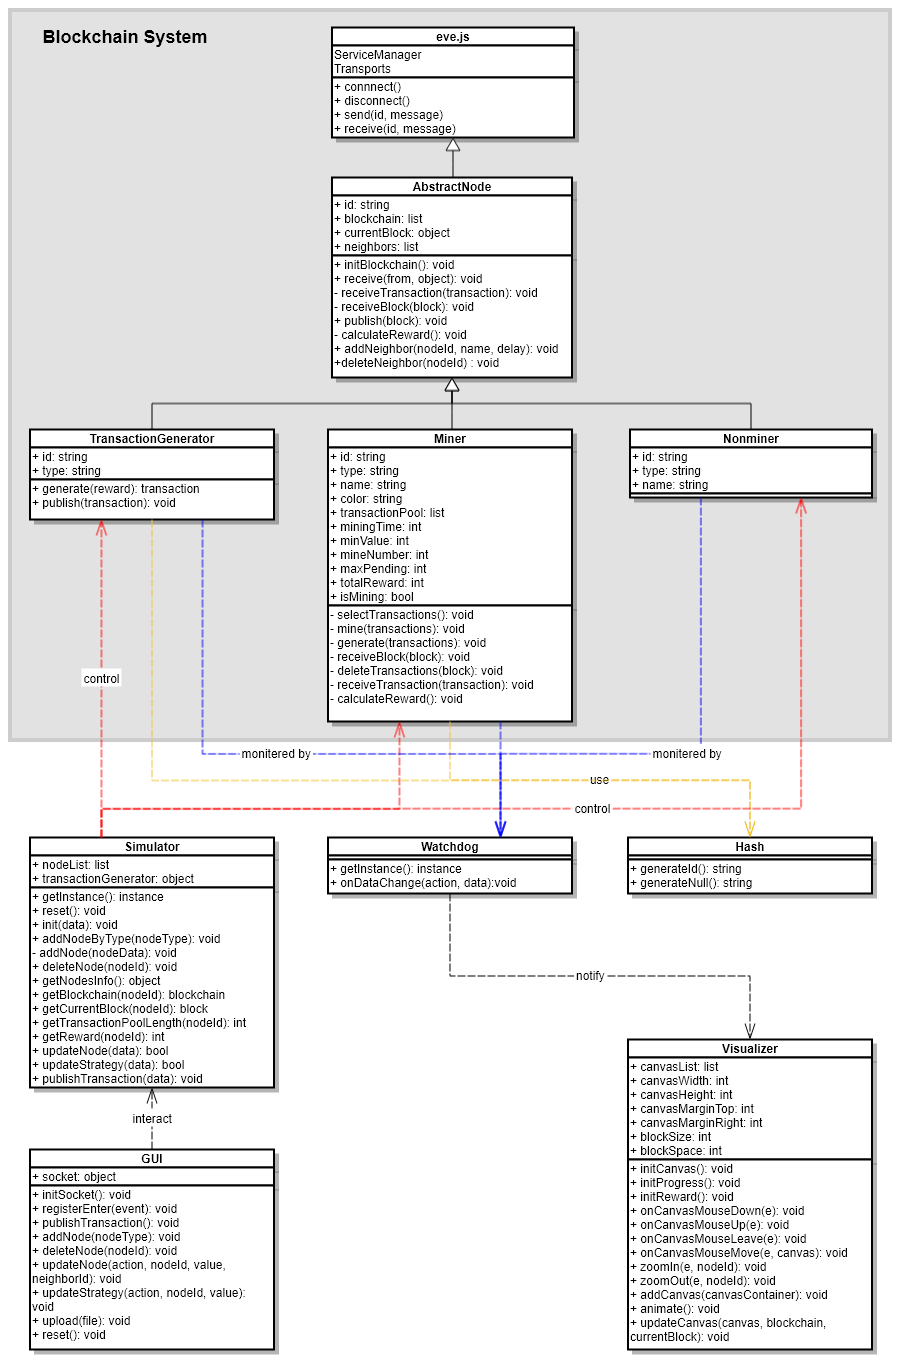
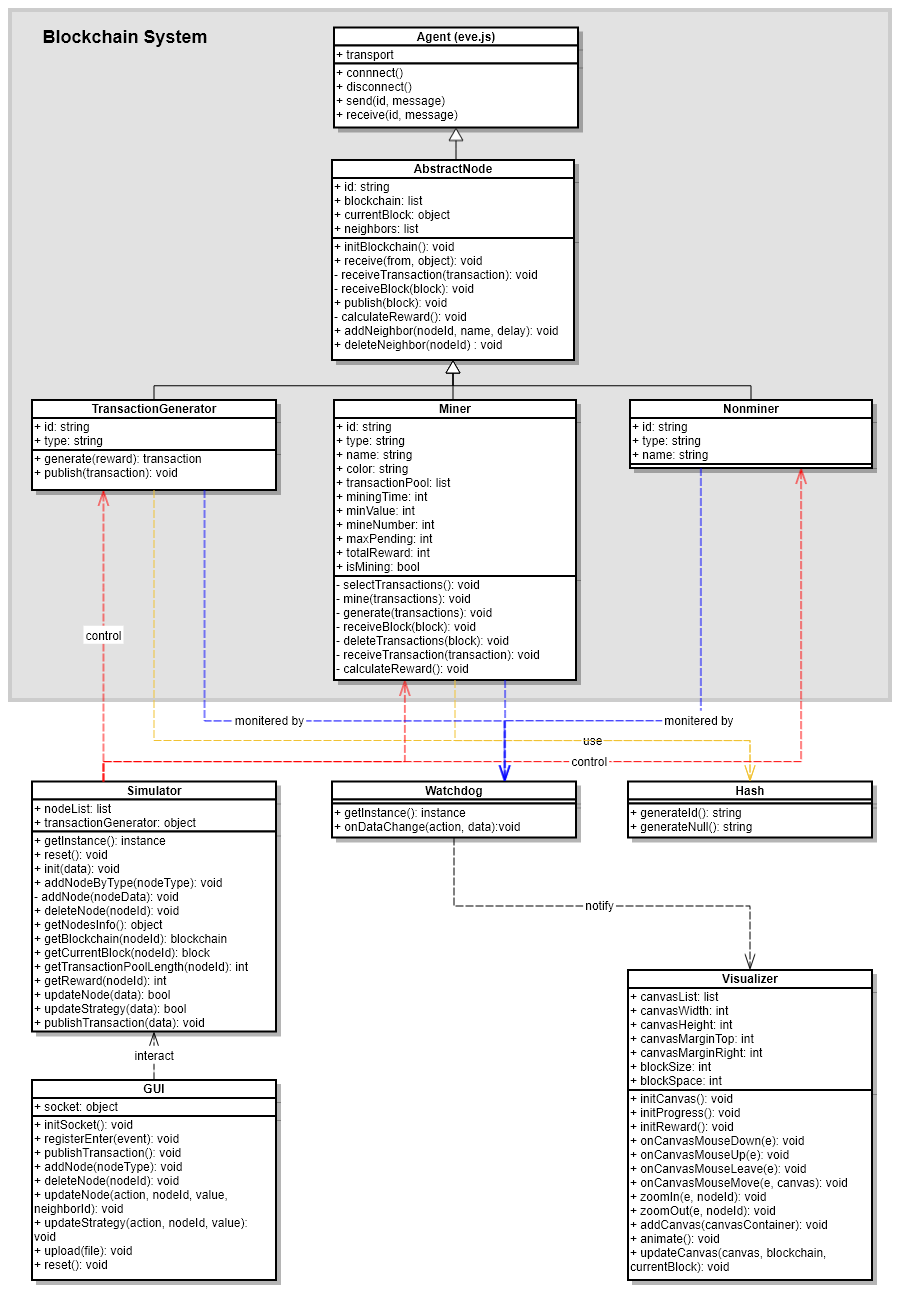
add uml tables

diff --git a/chapters/c04_implementation.tex b/chapters/c04_implementation.tex
@@ -94,14 +94,27 @@ The visualizer expresses fantastic blockchain visualization that is able to attr
 
 \section{UML Diagram}
 
-\begin{figure}[htb]
-    \centering
-    \includegraphics[width=\textwidth]{impl_uml}
-    \caption{Class Diagram.}
-    \label{fig:class diagram}
-\end{figure}
+In Figure \ref{fig:class diagram}, it demonstrates the class diagram of the visualization application. The blockchain system is based on the multi-agent system framework Eve. Abstract class \texttt{AbstractNode} inherits from \texttt{Agent} in Eve, and class \texttt{TransactionGenerator}, class \texttt{Miner}, and class \texttt{Nonminer} inherit from it. The blockchain system is controlled by class \texttt{Simulator}, and class \texttt{Watchdog} monitors it and notify class \texttt{Visualizer} when it is necessary to update. Class \texttt{GUI} provides the user interface and is able to interact with \texttt{Simulator}. Finally, a helper class \texttt{Hash} provides simulation functionalities of the hash computation.
 
-In Figure \ref{fig:class diagram}, it demonstrates the class diagram of the visualization application. The blockchain system is based on the multi-agent system framework Eve. Abstract class \texttt{AbstractNode} defines the common properties and methods of class \texttt{TransactionGenerator}, class \texttt{Miner}, and class \texttt{Nonminer}, and because it is abstract, it is not allowed to instantiate from \texttt{AbstractNode}. In contrast, we can instantiate objects from the children of \texttt{AbstractNode}, i.e., \texttt{TransactionGenerator}, \texttt{Miner}, and \texttt{Nonminer}.
+\texttt{Agent} (Table \ref{tab:class agent}) of the multi-agent system framework, Eve, establishes the communication channel for the agents. In the implementation, the channel is opened with HTTP protocols. It makes sending and receiving transactions and blocks very simple. 
+
+Abstract class \texttt{AbstractNode} (Table \ref{tab:class abstractNode}) defines the common properties and methods of it children. \texttt{AbstractNode} is an abstract class, so it is not allowed to instantiate instances from it. In contrast, we can create nodes from the children of \texttt{AbstractNode}, i.e., \texttt{TransactionGenerator}, \texttt{Miner}, and \texttt{Nonminer}. 
+
+Class \texttt{TransactionGenerator} (Table \ref{tab:class transactiongenerator}) is responsible for generating and publishing transactions. It should be only one transaction generator in the blockchain system. Furthermore, the neighbors of the transaction generator only contain the miners.
+
+Class \texttt{Miner} (Table \ref{tab:class miner}) is the main role in the blockchain system. It generates and publishes blocks through the blockchain network. Therefore, it controls all the mining processes in the blockchain system.
+
+Class \texttt{Nonminer} (Table \ref{tab:class nonminer}) represents common users who do not solve complex mathematical puzzles in the blockchain system. The only behavior of nonminers is to receive and publish blocks. Consequently, the miners and the nonminers connect with each other. 
+
+Class \texttt{Simulator} (Table \ref{tab:class simulator}) 
+
+Class \texttt{Watchdog} (Table \ref{tab:class watchdog}) 
+
+Class \texttt{Visualizer} (Table \ref{tab:class visualizer}) 
+
+Class \texttt{GUI} (Table \ref{tab:class gui}) 
+
+Class \texttt{Hash} (Table \ref{tab:class hash}) 
 
 \section{Algorithms}
 \label{algorithms}
@@ -110,8 +123,269 @@ The mining algorithm determines the most important part of the blockchain system
 
 Another important algorithm is about the consensus protocol. The algorithm of the consensus protocol is very simple because we do not consider malicious nodes in the blockchain system currently. Therefore, it is only responsible for resolving the longest blockchain. When a node receives a block from other nodes, this algorithm is triggered. If the received block is at a higher layer, i.e., the blockchain becomes longer, then the node will switch the current block to the received block to ensures that it is working on the correct blockchain. Moreover, the transactions of the received block are deleted from the transaction pools because these transactions are not pending anymore.
 
-\section{Configuration Files}
+\clearpage
 
-To replay the same visualization of blockchain processes, we can define the configuration of the blockchain system in a file and upload it to the application. The configuration file is composed of three parts: the properties and the parameters of mining strategies of nodes, the delays of networks between each node, and the transactions that will be published through the network. The file is in JSON format, and the file is uploaded to initialize the blockchain system at the beginning.
+\begin{figure}[!h]
+    \centering
+    \includegraphics[width=\textwidth]{impl_uml}
+    \caption{Class Diagram.}
+    \label{fig:class diagram}
+\end{figure}
 
-First, for nodes, it is important to define a unique transaction generator at first, and then it is followed by miners and nonminers. After that, a list of delays between each node is defined. As mentioned before, the transaction generator only connects to miners, and miners and nonminers connect with each other. In the last part, it contains a list of transactions with rewards and the time when the transaction will be published after the starting of the blockchain system.
+\begin{table}[!h]
+    \centering
+    \begin{tabular}{ M{3.5cm}|m{8cm} } 
+        \hline
+        \multicolumn{2}{c}{\textbf{Agent (eve.js)}} \\
+        \hline
+        \textit{Properties} & \multicolumn{1}{c}{\textit{Description}} \\
+        \hline
+        transport & communication channels. \\ 
+        \hline
+        \textit{Methods} & \multicolumn{1}{c}{\textit{Description}} \\
+        \hline
+        connect & connect with a transport. \\ 
+        disconnect & disconnect from a transport. \\ 
+        send & send messages to a transport. \\ 
+        receive & receive messages from a transport. \\ 
+        \hline
+    \end{tabular}
+    \caption{Class \texttt{Agent}}
+    \label{tab:class agent}
+\end{table}
+
+\begin{table}[!h]
+    \centering
+    \begin{tabular}{ M{3.5cm}|m{8cm} } 
+        \hline
+        \multicolumn{2}{c}{\textbf{AbstractNode}} \\
+        \hline
+        \textit{Properties} & \multicolumn{1}{c}{\textit{Description}} \\
+        \hline
+        id & unique in the multi-agent system. \\ 
+        blockchain & blockchain data structures. \\ 
+        currentBlock & the id of the block which is on the top of the longest blockchain. \\ 
+        neighbors & reachable nodes. \\ 
+        \hline
+        \textit{Methods} & \multicolumn{1}{c}{\textit{Description}} \\
+        \hline
+        initBlockchain & initialize blockchain data structures. \\ 
+        receive & inherit from \texttt{eve.js}. \\ 
+        receiveTransaction & define actions of receiving transactions. \\ 
+        receiveBlock & define actions of receiving blocks. \\ 
+        publish & publish transactions or blocks. \\ 
+        calculateReward & calculate the total mining rewards. \\ 
+        addNeighbor & add a new node as a neighbor. \\ 
+        deleteNeighbor & delete a node from neighbors. \\ 
+        \hline
+    \end{tabular}
+    \caption{Class \texttt{AbstractNode}}
+    \label{tab:class abstractNode}
+\end{table}
+
+\begin{table}[!h]
+    \centering
+    \begin{tabular}{ M{3.5cm}|m{8cm} } 
+        \hline
+        \multicolumn{2}{c}{\textbf{TransactionGenerator}} \\
+        \hline
+        \textit{Properties} & \multicolumn{1}{c}{\textit{Description}} \\
+        \hline
+        id & unique in the multi-agent system. \\ 
+        type & is always ``generator''. \\ 
+        \hline
+        \textit{Methods} & \multicolumn{1}{c}{\textit{Description}} \\
+        \hline
+        generate & generate a transaction. \\ 
+        publish & publish a transaction. \\ 
+        \hline
+    \end{tabular}
+    \caption{Class \texttt{TransactionGenerator}}
+    \label{tab:class transactiongenerator}
+\end{table}
+
+\begin{table}[!h]
+    \centering
+    \begin{tabular}{ M{3.5cm}|m{8cm} } 
+        \hline
+        \multicolumn{2}{c}{\textbf{Miner}} \\
+        \hline
+        \textit{Properties} & \multicolumn{1}{c}{\textit{Description}} \\
+        \hline
+        id & unique in the multi-agent system. \\ 
+        type & is always ``miner''. \\ 
+        name & a simple nickname. \\ 
+        color & the color of the generated blocks. \\ 
+        transactionPool & contain pending transactions. \\ 
+        miningTime & computing power. \\ 
+        minValue & minimum value of transactions. \\ 
+        mineNumber & size of blocks. \\ 
+        maxPending & maximum pending transactions. \\ 
+        totalReward & total number of rewards. \\ 
+        isMining & whether the miner is mining. \\ 
+        \hline
+        \textit{Methods} & \multicolumn{1}{c}{\textit{Description}} \\
+        \hline
+        selectTransactions & select pending transactions as candidates. \\ 
+        mine & solve the puzzles. \\ 
+        generate & generate a block instance. \\ 
+        receiveBlock & inherit from \texttt{AbstractNode}. \\ 
+        deleteTransactions & delete mined transactions from the transaction pool. \\ 
+        receiveTransaction & inherit from \texttt{AbstractNode}. \\ 
+        calculateReward & inherit from \texttt{AbstractNode}. \\ 
+        \hline
+    \end{tabular}
+    \caption{Class \texttt{Miner}}
+    \label{tab:class miner}
+\end{table}
+
+\begin{table}[!h]
+    \centering
+    \begin{tabular}{ M{3.5cm}|m{8cm} } 
+        \hline
+        \multicolumn{2}{c}{\textbf{Nonminer}} \\
+        \hline
+        \textit{Properties} & \multicolumn{1}{c}{\textit{Description}} \\
+        \hline
+        id & unique in the multi-agent system. \\ 
+        type & is always ``nonminer''. \\ 
+        name & a simple nickname. \\ 
+        \hline
+    \end{tabular}
+    \caption{Class \texttt{Nonminer}}
+    \label{tab:class nonminer}
+\end{table}
+
+\begin{table}[!h]
+    \centering
+    \begin{tabular}{ M{3.5cm}|m{8cm} } 
+        \hline
+        \multicolumn{2}{c}{\textbf{Simulator}} \\
+        \hline
+        \textit{Properties} & \multicolumn{1}{c}{\textit{Description}} \\
+        \hline
+        nodeList & a list of all nodes. \\ 
+        transactionGenerator & reference to the transaction generator. \\ 
+        \hline
+        \textit{Methods} & \multicolumn{1}{c}{\textit{Description}} \\
+        \hline
+        getInstance & get the instance of the simulator. \\ 
+        reset & reset the blockchain system. \\ 
+        init & initialize the blockchain system. \\ 
+        addNodeByType & add a new node with defined type. \\ 
+        addNode & add a new node. \\ 
+        deleteNode & delete a node. \\ 
+        getNodesInfo & get the information of a node. \\ 
+        getBlockchain & get the blockchain data structure of a node. \\ 
+        getCurrentBlock & get the information of the current block of a node. \\ 
+        \begin{tabular}[c]{@{}c@{}}getTransactionPool- \\ Length\end{tabular} & get the level of capacity of the transaction pool of a node. \\ 
+        getReward & get the number of rewards of a node. \\ 
+        updateNode & update the information of a node. \\ 
+        updateStrategy & update the parameters of mining strategies of a node. \\ 
+        publishTransaction & publish a transaction through the transaction generator. \\ 
+        \hline
+    \end{tabular}
+    \caption{Class \texttt{Simulator}}
+    \label{tab:class simulator}
+\end{table}
+
+\begin{table}[!h]
+    \centering
+    \begin{tabular}{ M{3.5cm}|m{8cm} } 
+        \hline
+        \multicolumn{2}{c}{\textbf{Watchdog}} \\
+        \hline
+        \textit{Methods} & \multicolumn{1}{c}{\textit{Description}} \\
+        \hline
+        getInstance & get the instance of the watchdog. \\ 
+        onDataChange & monitoring the data. \\ 
+        \hline
+    \end{tabular}
+    \caption{Class \texttt{Watchdog}}
+    \label{tab:class watchdog}
+\end{table}
+
+\begin{table}[!h]
+    \centering
+    \begin{tabular}{ M{3.5cm}|m{8cm} } 
+        \hline
+        \multicolumn{2}{c}{\textbf{Visualizer}} \\
+        \hline
+        \textit{Properties} & \multicolumn{1}{c}{\textit{Description}} \\
+        \hline
+        canvasList & a list of all canvases. \\ 
+        canvasWidth & the width of each canvas. \\ 
+        canvasHeight & the height of each canvas. \\ 
+        canvasMarginTop & the top margin of each canvas. \\ 
+        canvasMarginRight & the right margin of each canvas. \\ 
+        blockSize & the size of blocks. \\ 
+        blockSpace & the spaces between blocks. \\ 
+        \hline
+        \textit{Methods} & \multicolumn{1}{c}{\textit{Description}} \\
+        \hline
+        initCanvas & initialize all canvases. \\ 
+        initProgress & initialize progress bars. \\ 
+        initReward & initialize the numbers of rewards. \\ 
+        onCanvasMouseDown & mouse event. \\ 
+        onCanvasMouseUp & mouse event. \\ 
+        onCanvasMouseLeave & mouse event. \\ 
+        onCanvasMouseMove & mouse event. \\ 
+        zoomIn & zoom in with mouse. \\ 
+        zoomOut & zoom out with mouse. \\ 
+        addCanvas & add a new canvas. \\ 
+        animate & update by each frame. \\ 
+        updateCanvas & update a canvas. \\ 
+        \hline
+    \end{tabular}
+    \caption{Class \texttt{Visualizer}}
+    \label{tab:class visualizer}
+\end{table}
+
+\begin{table}[!h]
+    \centering
+    \begin{tabular}{ M{3.5cm}|m{8cm} } 
+        \hline
+        \multicolumn{2}{c}{\textbf{GUI}} \\
+        \hline
+        \textit{Properties} & \multicolumn{1}{c}{\textit{Description}} \\
+        \hline
+        socket & the instance of WebSocket. \\ 
+        \hline
+        \textit{Methods} & \multicolumn{1}{c}{\textit{Description}} \\
+        \hline
+        initSocket & initialize WebSocket. \\ 
+        registerEnter & register enter keyboard. \\ 
+        publishTransaction & publish a transaction. \\ 
+        addNode & add a new node. \\ 
+        deleteNode & delete a node. \\ 
+        updateNode & update a node. \\ 
+        updateStrategy & update the parameters of mining strategies of a node. \\ 
+        upload & upload a configuration file. \\ 
+        reset & reset the blockchain system. \\ 
+        \hline
+    \end{tabular}
+    \caption{Class \texttt{GUI}}
+    \label{tab:class gui}
+\end{table}
+
+\begin{table}[!h]
+    \centering
+    \begin{tabular}{ M{3.5cm}|m{8cm} } 
+        \hline
+        \multicolumn{2}{c}{\textbf{Hash}} \\
+        \hline
+        \textit{Methods} & \multicolumn{1}{c}{\textit{Description}} \\
+        \hline
+        generateId & generate a hash value for id. \\ 
+        generateNull & generate a hash value only with zeros. \\ 
+        \hline
+    \end{tabular}
+    \caption{Class \texttt{Hash}}
+    \label{tab:class hash}
+\end{table}
+
+% \section{Configuration Files}
+
+% To replay the same visualization of blockchain processes, we can define the configuration of the blockchain system in a file and upload it to the application. The configuration file is composed of three parts: the properties and the parameters of mining strategies of nodes, the delays of networks between each node, and the transactions that will be published through the network. The file is in JSON format, and the file is uploaded to initialize the blockchain system at the beginning.
+
+% First, for nodes, it is important to define a unique transaction generator at first, and then it is followed by miners and nonminers. After that, a list of delays between each node is defined. As mentioned before, the transaction generator only connects to miners, and miners and nonminers connect with each other. In the last part, it contains a list of transactions with rewards and the time when the transaction will be published after the starting of the blockchain system.

diff --git a/chapters/c03_blockchain_system.tex b/chapters/c03_blockchain_system.tex
@@ -13,7 +13,7 @@ There are only two types of data structures that are used in the blockchain syst
         \textit{Properties} & \multicolumn{1}{c}{\textit{Description}} \\
         \hline
         ID & the hash value of the transaction. \\ 
-        type & is always “transaction”. \\ 
+        type & is always ``transaction''. \\ 
         timestamp & the time that the transaction is created. \\ 
         reward & the number of rewards that the miner will receive. \\ 
         privilege & to prevent the starvation of the transaction. \\ 
@@ -60,7 +60,7 @@ Thus, when Alice decides to mine a block next time, she will select this transac
         \textit{Properties} & \multicolumn{1}{c}{\textit{Description}} \\
         \hline
         ID & the hash value of the block. \\ 
-        type & is always “block”. \\ 
+        type & is always ``block''. \\ 
         timestamp & the time that the block is created. \\ 
         miner & the public address of the miner. \\ 
         previous & the hash value of the previous block. \\ 
